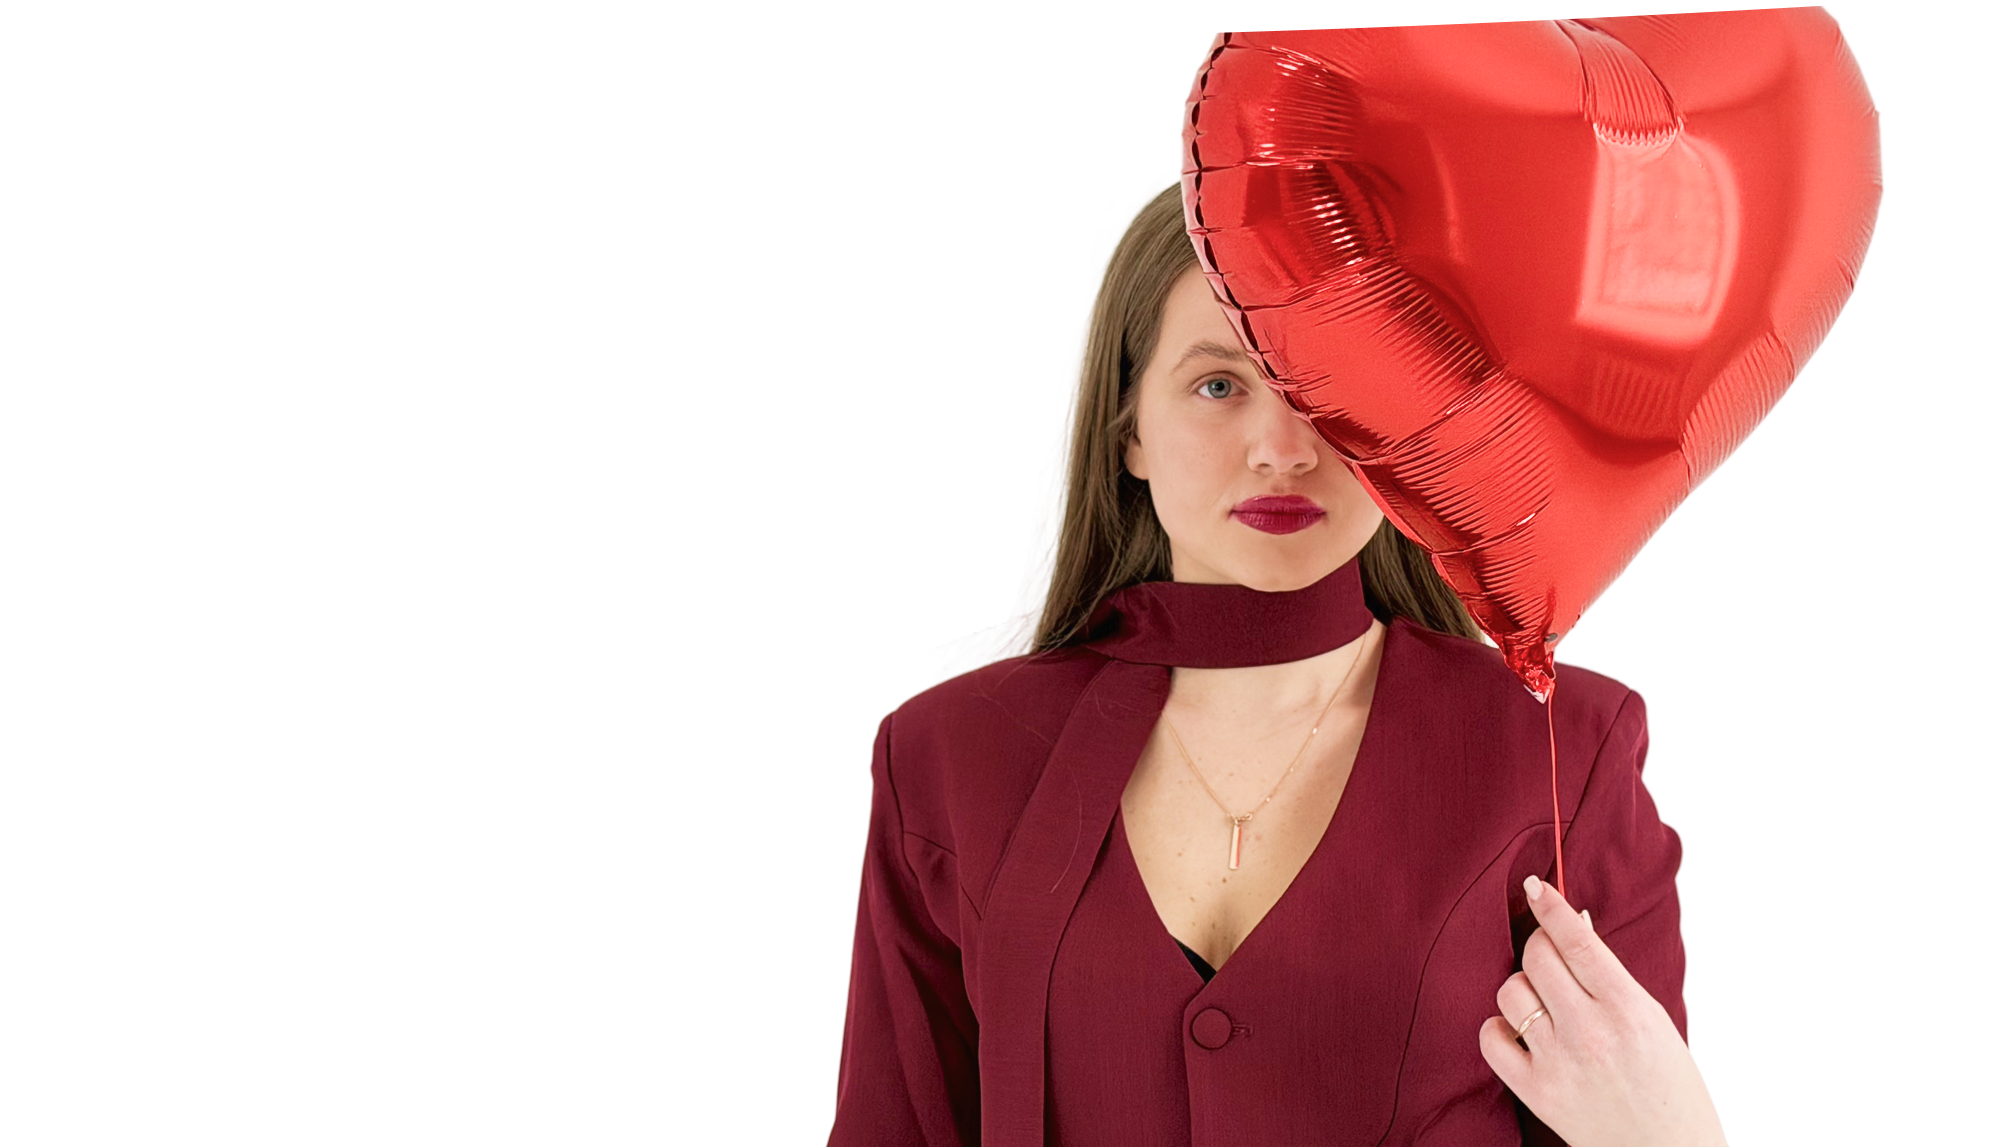
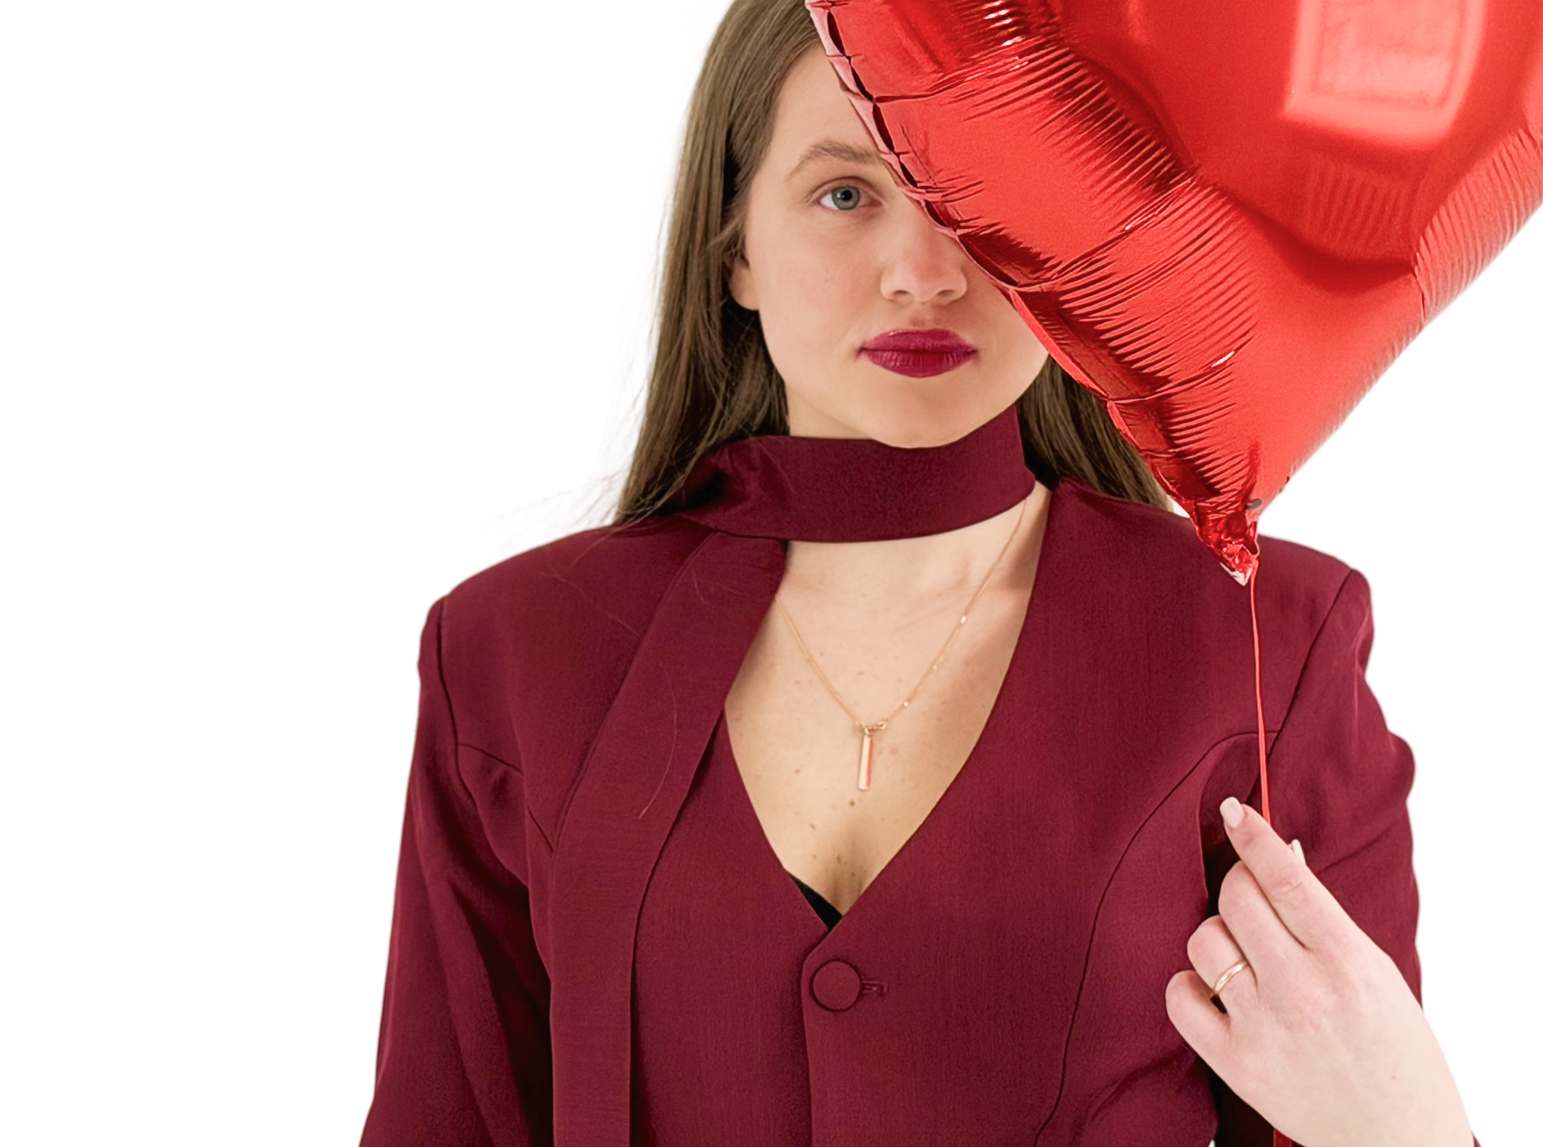
update author image on desktop

diff --git a/widgets/author/ui/AuthorSection.vue b/widgets/author/ui/AuthorSection.vue
@@ -1,9 +1,16 @@
 <script setup lang="ts">
+import WaveDivider from '@shared/ui/WaveDivider.vue'
 // Author / stats / quote — Figma 57:176/182/234/166. Block: white card + photo on the right.
+// Desktop pink block (Figma Group 23 / 107:6041): wavy TOP edge + rounded BOTTOM corners,
+// no bottom wave. The photo is clipped to this shape (top by the wave, bottom by the radius).
+const PAGE = 'var(--c-page)' // colour above the wave (matches the section above)
 </script>
 
 <template>
   <section id="author" class="author">
+    <!-- DESKTOP: wavy top edge of the pink block; sits over the photo so it clips it too (Figma 107:6042) -->
+    <WaveDivider class="author__wave author__desktop" :from="PAGE" to="transparent" :height="215" />
+
     <!-- DESKTOP (Figma 57:176): white card on the left + photo on the right -->
     <div class="author__inner container author__desktop">
       <div class="card">
@@ -35,7 +42,7 @@
     <!-- MOBILE (Figma Stats Section 73:890): title (white on pink) -> photo -> card{quote, stats} -->
     <div class="author__mobile container">
       <h2 class="am__name"><b>Автор обучения -</b> Виктория Русских</h2>
-      <img class="am__photo" src="/img/author-photo.png" alt="Виктория Русских" draggable="false" />
+      <img class="am__photo" src="/img/author-photo-mobile.png" alt="Виктория Русских" draggable="false" />
       <div class="am__card">
         <span class="am__mark"><img src="/img/quote-mark.svg" alt="" /></span>
         <h3 class="am__qtitle">Меня выбирают не только за знания, но и за подход к обучению</h3>
@@ -60,7 +67,7 @@
 
     <!-- #3 clickable telegram -->
     <a class="tg" href="https://t.me/VikaRusskikh" target="_blank" rel="noopener">
-      <span class="tg__cap">Автор обучения<br />Виктория Русских</span>
+      <span class="tg__cap"><span class="tg__cap-muted">Автор обучения</span><br />Виктория Русских</span>
       <span class="tg__pill">
         <img class="tg__icon" src="/img/tg-icon.svg" alt="" />
         <span class="tg__handle">@VikaRusskikh</span>
@@ -74,7 +81,19 @@
   position: relative;
   background: var(--c-pink);
   overflow: hidden;
-  padding: clamp(1rem, 2vw, 1.5rem) 0 clamp(2rem, 3.3vw, 3rem);
+  /* Figma 107:6041: rounded bottom corners (no bottom wave on desktop) */
+  /* border-radius: 0 0 clamp(2rem, 3vw, 3.5rem) clamp(2rem, 3vw, 3.5rem); */
+  /* top: 81px to clear the wave + sit the card where Figma 107:6055 starts */
+  padding: 0 0 clamp(2rem, 3.3vw, 3rem);
+}
+/* Wavy top edge (Figma 107:6042). Above photo (z1), below the card (z2, later in DOM). */
+.author__wave {
+  position: absolute;
+  top: 0;
+  left: 0;
+  width: 100%;
+  z-index: 2;
+  pointer-events: none;
 }
 .author__inner {
   position: relative;
@@ -84,7 +103,7 @@
   width: min(92%, 39.375rem); /* 630px cap, fluid below */
   background: var(--c-white);
   border-radius: clamp(0.75rem, 1.1vw, 1rem); /* 16 */
-  padding: clamp(1.5rem, 3vw, 2.3125rem) clamp(1.5rem, 3.6vw, 3.25rem) clamp(2rem, 3.5vw, 3.125rem);
+  padding: clamp(1.5rem, 3vw, 2.3125rem) clamp(1.5rem, 3.6vw, 3.25rem) clamp(2rem, 3.5vw, 3.375rem); /* Figma 37 / 52 / 54 */
 }
 .card__name {
   font-family: var(--font-suisse);
@@ -97,10 +116,10 @@
   font-weight: 700;
 }
 .stats {
-  margin-top: clamp(1.5rem, 3vw, 2.75rem);
+  margin-top: clamp(1.5rem, 2.2vw, 2rem); /* Figma gap title→stat = 32 */
   display: flex;
   flex-direction: column;
-  gap: clamp(1rem, 1.8vw, 1.625rem);
+  gap: clamp(1.25rem, 2.2vw, 2rem); /* Figma gap between stats = 32 */
 }
 .stat {
   display: flex;
@@ -110,11 +129,11 @@
   font-family: var(--font-suisse);
   font-weight: 700;
   font-size: clamp(2.625rem, 6.25vw, 5.625rem); /* 42 → 90 */
-  line-height: 1;
+  line-height: 1.155; /* Figma num box 104/90.139 */
   color: var(--c-beige);
 }
 .stat__label {
-  margin-top: -0.2em;
+  margin-top: 0; /* Figma: desc box directly below num box */
   max-width: min(85%, 17.2rem); /* 275 */
   font-family: var(--font-suisse);
   font-weight: 400;
@@ -123,24 +142,24 @@
   color: var(--c-ink-22);
 }
 .quote {
-  margin-top: clamp(1.5rem, 3vw, 2.75rem);
+  margin-top: clamp(1.5rem, 2.2vw, 2rem); /* Figma gap stat→quote = 32 */
 }
 .quote__mark {
   display: flex;
   align-items: center;
   justify-content: center;
-  width: 25px; /* 57 */
-  height: 25px;
+  width: clamp(2.25rem, 3.95vw, 3.5625rem); /* 57 */
+  height: clamp(2.25rem, 3.95vw, 3.5625rem);
   border-radius: clamp(0.25rem, 0.25vw, 0.228rem); /* 3.65 */
   background: var(--c-ink-2f);
 }
 .quote__mark img {
-  width: 100%;
-  height: 100%;
-  height: auto;
+  /* SVG has preserveAspectRatio="none" → must pin both dims to glyph ratio 27×24 */
+  width: 47.4%; /* 27/57 */
+  height: 42.1%; /* 24/57 */
 }
 .quote__title {
-  margin-top: clamp(1.125rem, 2.1vw, 1.875rem);
+  margin-top: clamp(1.25rem, 2.2vw, 2rem); /* Figma gap mark→title = 32 */
   max-width: min(92%, 36.125rem); /* 578 */
   font-family: var(--font-suisse);
   font-weight: 700;
@@ -150,7 +169,7 @@
   opacity: 0.8;
 }
 .quote__text {
-  margin-top: clamp(0.8rem, 1.25vw, 1.125rem);
+  margin-top: clamp(0.4rem, 0.7vw, 0.625rem); /* Figma gap title→text = 10 */
   max-width: min(88%, 33.3rem); /* 533 */
   font-family: var(--font-suisse);
   font-weight: 400;
@@ -165,15 +184,10 @@
   z-index: 1;
   top: 0;
   bottom: 0;
-  /* author-photo.png is a centred cut-out with transparent left/right margins.
-     Anchor by height and bleed the transparent right margin past the edge (section
-     overflow:hidden clips it) so the subject hugs the pink edge. max() tracks viewport
-     but caps the bleed on wide screens where the section height stops growing. */
-  right: max(-32.4rem, -36vw);
+  right: 0;
   height: 100%;
-  width: auto;
+  width: auto; /* full image, no cropping; touches top & bottom */
   max-width: none;
-  object-fit: cover;
   pointer-events: none;
 }
 
@@ -188,8 +202,11 @@
   font-family: var(--font-sf);
   font-size: clamp(0.8rem, 1.06vw, 0.957rem); /* 15.307 */
   line-height: 1.15;
-  color: rgba(255, 255, 255, 0.75);
+  color: #fff; /* Figma: line 2 = white */
   margin-bottom: 0.5rem;
+}
+.tg__cap-muted {
+  color: rgba(255, 255, 255, 0.4); /* Figma: line 1 = 40% white */
 }
 .tg__pill {
   display: inline-flex;
@@ -200,8 +217,11 @@
   padding: clamp(0.4rem, 0.55vw, 0.5rem) clamp(0.75rem, 1.1vw, 1rem);
 }
 .tg__icon {
-  width: clamp(0.9rem, 1.25vw, 1.125rem);
+  /* SVG preserveAspectRatio="none" → lock box to glyph ratio 18×16 */
+  width: clamp(0.9rem, 1.25vw, 1.125rem); /* 18 */
   height: auto;
+  aspect-ratio: 18 / 16;
+  flex: none;
 }
 .tg__handle {
   font-family: var(--font-sf);
@@ -214,23 +234,29 @@
   display: none;
 }
 
+/* MOBILE — exact px from Figma frame 118:129 (428px wide) */
 @media (max-width: 767px) {
   .author {
-    padding: clamp(1rem, 7.5vw, 1.75rem) 0 clamp(0.25rem, 1.9vw, 0.5rem); /* pink band; gallery continues below */
+    padding: 27px 0 24px; /* Figma: title at y27; gallery continues below */
+    border-radius: 0; /* mobile merges author+gallery+reviews on one pink band */
   }
   .author__desktop {
     display: none;
+  }
+  .tg {
+    display: none; /* Instagram/Telegram button is not in the mobile frame */
   }
   .author__mobile {
     display: block;
     position: relative;
   }
-  /* Author Title 73:893 — Suisse Light ≈24, white, centered */
+  /* Author Title 107:6329 — Suisse 24, white, centred, w300 */
   .am__name {
-    margin: 0;
+    margin: 0 auto;
+    max-width: 300px;
     font-family: var(--font-suisse);
     font-weight: 300;
-    font-size: clamp(1.25rem, 7.5vw, 1.85rem);
+    font-size: 24px; /* Figma mobile */
     line-height: 1.2;
     color: var(--c-white);
     text-align: center;
@@ -238,55 +264,63 @@
   .am__name b {
     font-weight: 700;
   }
-  /* Photo (Figma IMG_4762 73:894) */
+  /* Photo 107:6330 — full-width 428×402 (object-cover portrait crop), overlaps title bottom */
   .am__photo {
     display: block;
     position: relative;
     z-index: 0;
-    width: 100%;
+    width: calc(100% + 20px); /* break out of the container's 10px padding → full-bleed 428 */
+    aspect-ratio: 428 / 402; /* Figma photo box */
     height: auto;
-    margin-top: clamp(0.25rem, 1.9vw, 0.5rem);
+    object-fit: cover;
+    object-position: top center;
+    margin: -6px 0 0 -10px; /* Figma: title 27..85, photo at y79; -10 breaks the gutter */
   }
-  /* White card (Figma Rectangle 2478 73:895) — overlaps the photo's lower part */
+  /* White card 107:6331 — w300 centred (64px margins), overlaps the photo's lower 120px */
   .am__card {
     position: relative;
     z-index: 1;
-    margin-top: clamp(-6.5rem, -21.9vw, -3rem);
+    width: 300px;
+    max-width: 300px;
+    margin: -120px auto 0; /* Figma: photo ends 481, card top at 361 */
     background: var(--c-white);
-    border-radius: clamp(0.75rem, 5vw, 1.25rem);
-    padding: clamp(0.9rem, 5.6vw, 1.4rem);
+    border-radius: 20px;
+    padding: 18px 18px 22px; /* Figma: content inset x82 = 18 from card */
     box-shadow: 0 20px 50px rgba(0, 0, 0, 0.08);
   }
-  /* Quote mark (Stats Icon Background 73:904 — ≈31×31 dark) */
+  /* Quote mark 118:124 — 31×31 dark */
   .am__mark {
     display: flex;
     align-items: center;
     justify-content: center;
-    width: clamp(1.6rem, 9.7vw, 2.4rem);
-    height: clamp(1.6rem, 9.7vw, 2.4rem);
-    border-radius: clamp(0.2rem, 1.25vw, 0.35rem);
+    width: 31px; /* Figma */
+    height: 31px;
+    border-radius: 6px;
     background: var(--c-ink-2f);
   }
   .am__mark img {
-    width: 48%; /* Figma quote vector 15 of 31 */
-    height: auto;
+    /* SVG preserveAspectRatio="none" → pin both dims to glyph ratio 27×24 */
+    width: 15px; /* Figma quote glyph */
+    height: 13.33px; /* 15 × 24/27 */
   }
-  /* Quote title (Stats Intro 73:897 — Suisse Bold ≈16.73, #2f2f2f @80%) */
+  /* Stats Intro 107:6333 — Suisse Bold 16.73, #2f2f2f @80%, w213 */
   .am__qtitle {
-    margin: clamp(0.9rem, 5.6vw, 1.4rem) 0 0;
+    margin: 18px 0 0; /* Figma: icon 18..49, intro at card-rel 67 */
+    max-width: 213px;
     font-family: var(--font-suisse);
     font-weight: 700;
-    font-size: clamp(0.95rem, 5.23vw, 1.3rem);
+    font-size: 16.73px; /* Figma mobile */
     line-height: 1.25;
     color: var(--c-ink-2f);
     opacity: 0.8;
   }
-  /* Quote text (Stats Description 73:896 — Suisse ≈12.045, #2f2f2f @80%; 1st sentence SemiBold) */
+  /* Stats Description 107:6332 — Suisse 12.045, #2f2f2f @80%; 1st sentence SemiBold */
   .am__qtext {
-    margin: clamp(0.65rem, 4vw, 1rem) 0 0;
+    margin: 13px 0 0; /* Figma: intro ends 130, desc at 143 */
+    max-width: 282px;
     font-family: var(--font-suisse);
     font-weight: 400;
-    font-size: clamp(0.7rem, 3.76vw, 0.95rem);
+    font-size: 12.045px; /* Figma mobile */
     line-height: 1.5;
     color: var(--c-ink-2f);
     opacity: 0.8;
@@ -294,29 +328,31 @@
   .am__qtext b {
     font-weight: 600; /* Figma SemiBold */
   }
-  /* Stats 200+/8+ as two columns (Figma Statistics Container 73:906) */
+  /* Statistics 107:6342 — 200+/8+ side by side */
   .am__stats {
-    margin-top: clamp(0.75rem, 4.7vw, 1.2rem);
+    margin-top: 15px; /* Figma: desc ends 233, stats at 248 */
     display: flex;
   }
   .am__stat {
-    flex: 1;
     display: flex;
     flex-direction: column;
+  }
+  .am__stat:first-child {
+    width: 135px; /* Figma: 200+ @x82, 8+ @x217 → 135px column */
   }
   .am__num {
     font-family: var(--font-suisse);
     font-weight: 700;
-    font-size: clamp(2.2rem, 13.26vw, 3.3rem); /* Figma Suisse Bold 42.437 */
+    font-size: 42.437px; /* Figma mobile */
     line-height: 1;
     color: var(--c-beige); /* #f5c8a9 */
   }
   .am__label {
-    margin-top: clamp(0.25rem, 1.9vw, 0.5rem);
-    max-width: 40%; /* Figma label box w127/129 of 320 */
+    margin-top: 3px; /* Figma: num 609.., label at 654 */
+    max-width: 129px; /* Figma label box w127/129 */
     font-family: var(--font-suisse);
     font-weight: 400;
-    font-size: clamp(0.75rem, 4.35vw, 1rem); /* Figma Suisse Regular 13.914 */
+    font-size: 13.914px; /* Figma mobile */
     line-height: 1.15;
     color: var(--c-ink-1a); /* #1a1a1a */
   }

diff --git a/pages/index.vue b/pages/index.vue
@@ -32,10 +32,10 @@ const CLEAR = 'transparent' /* second (grey) colour of dividers → see-through 
 
     <CourseSection />
 
-    <WaveDivider :from="PAGE" :to="PINK" :height="80" />
+    <!-- desktop: the pink block's wavy top is drawn inside AuthorSection (so it also clips the photo);
+         mobile keeps a plain divider. No bottom wave on desktop — the pink block has rounded corners. -->
+    <WaveDivider class="wd-mobile" :from="PAGE" :to="PINK" :height="80" />
     <AuthorSection />
-    <!-- desktop: gallery is its own fafa section; mobile merges author+gallery+reviews on one pink band -->
-    <WaveDivider class="wd-desktop" :from="PINK" :to="CLEAR" :height="80" />
 
     <GallerySection />
 